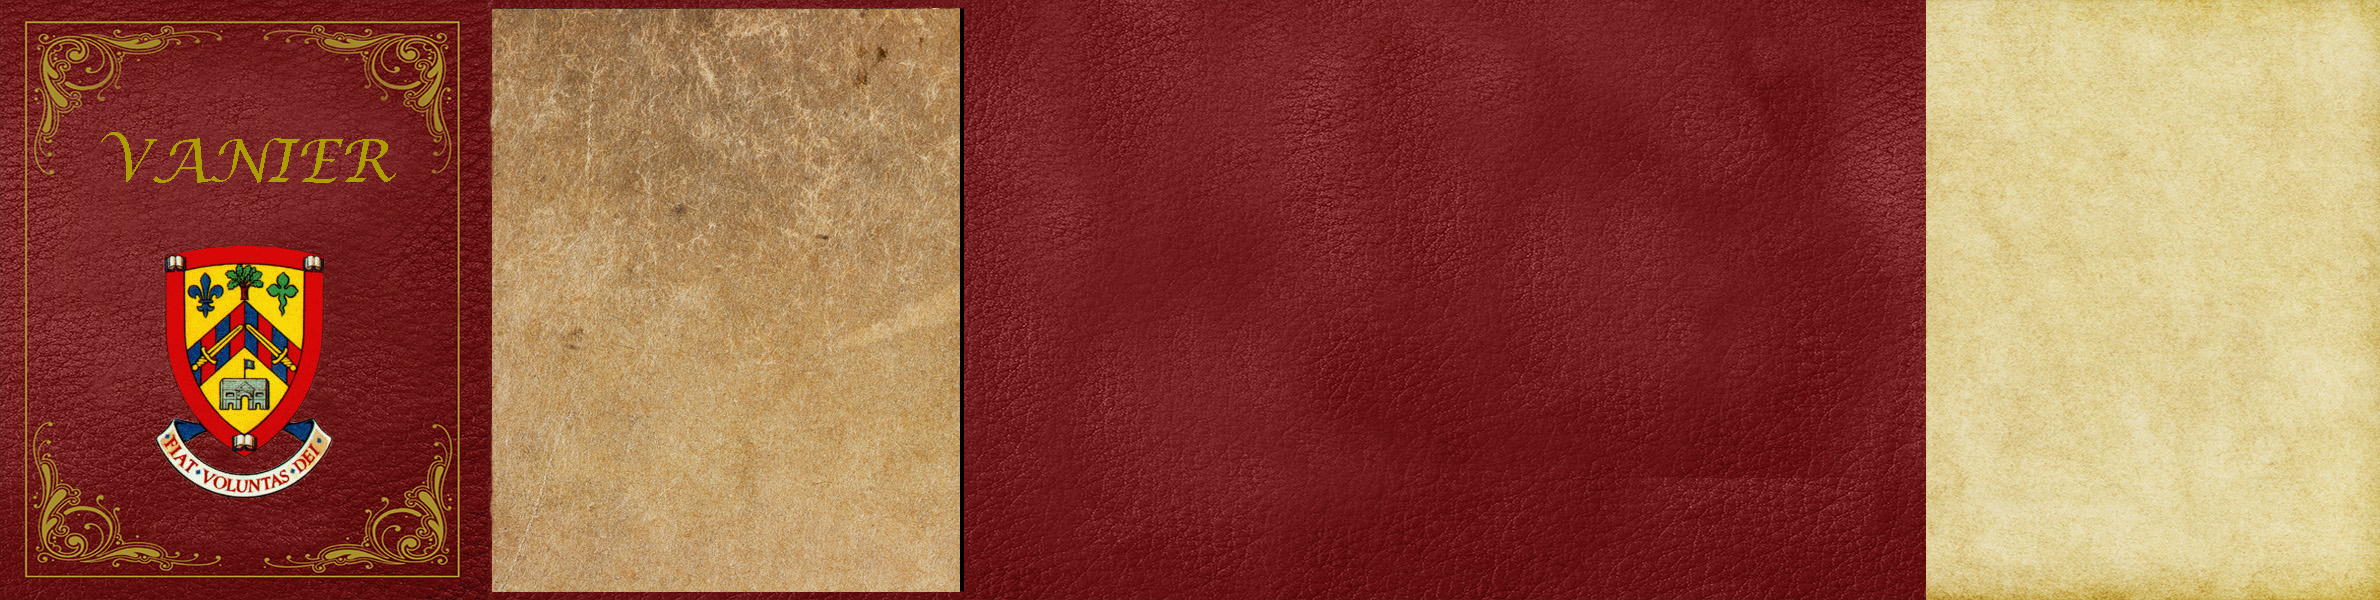
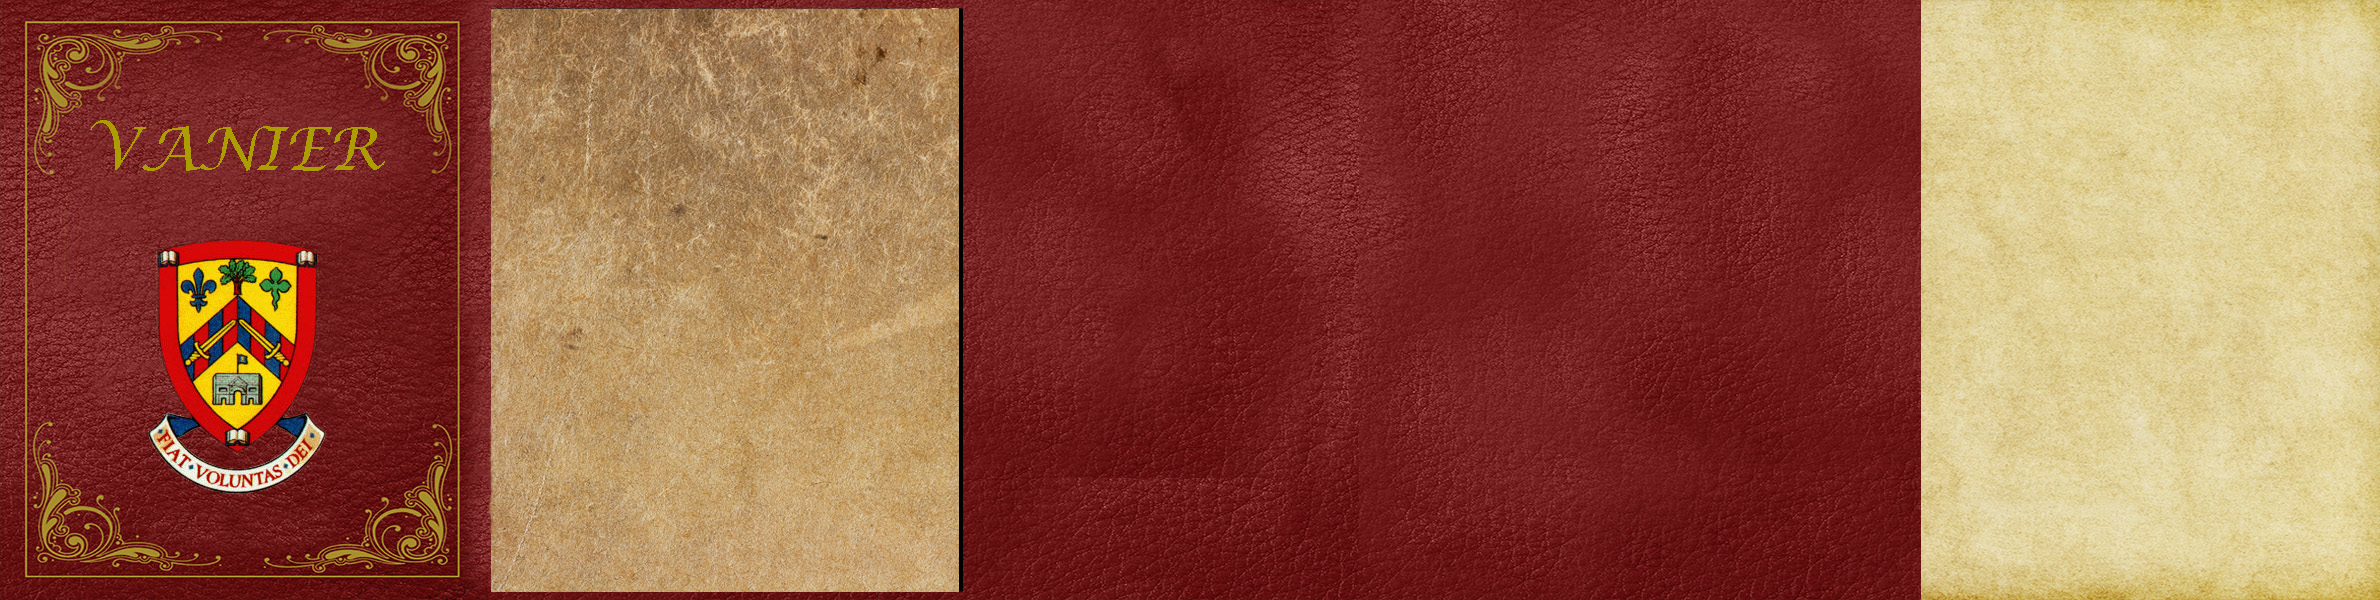
This is why the cat shouldn't sit on my keyboard.

diff --git a/includes2016/views/vanier/index.php b/includes2016/views/vanier/index.php
@@ -5,6 +5,15 @@
         background-image : url('http://devbana.tk/images/book/wood.jpg');
         background-size: cover;
     }
+
+    .sj-book .p1,
+    .sj-book .p2,
+    .sj-book .p3,
+    .sj-book .pBeforeLast,
+    .sj-book .pLast {
+        background-color: white;
+        background-image: url(<?=URL?>images/book/VanierBook.jpg) !important;
+    }
 </style>
 
 <div id="canvas" class="container-fluid">

diff --git a/includes2016/controllers/en.php b/includes2016/controllers/en.php
@@ -50,8 +50,7 @@ class en extends Controller
     {
         $this->view->book = 'vanier';
         $this->model = $this->getModel('Book');
-        $this->view->texts = $this->model->getTeamPage($this->lang, 'JOURNALISM', 'BUILD');
-        $this->view->render('book/index');
+        $this->view->render('vanier/index');
     }
 
     public function journalism($subpage = 'index')
